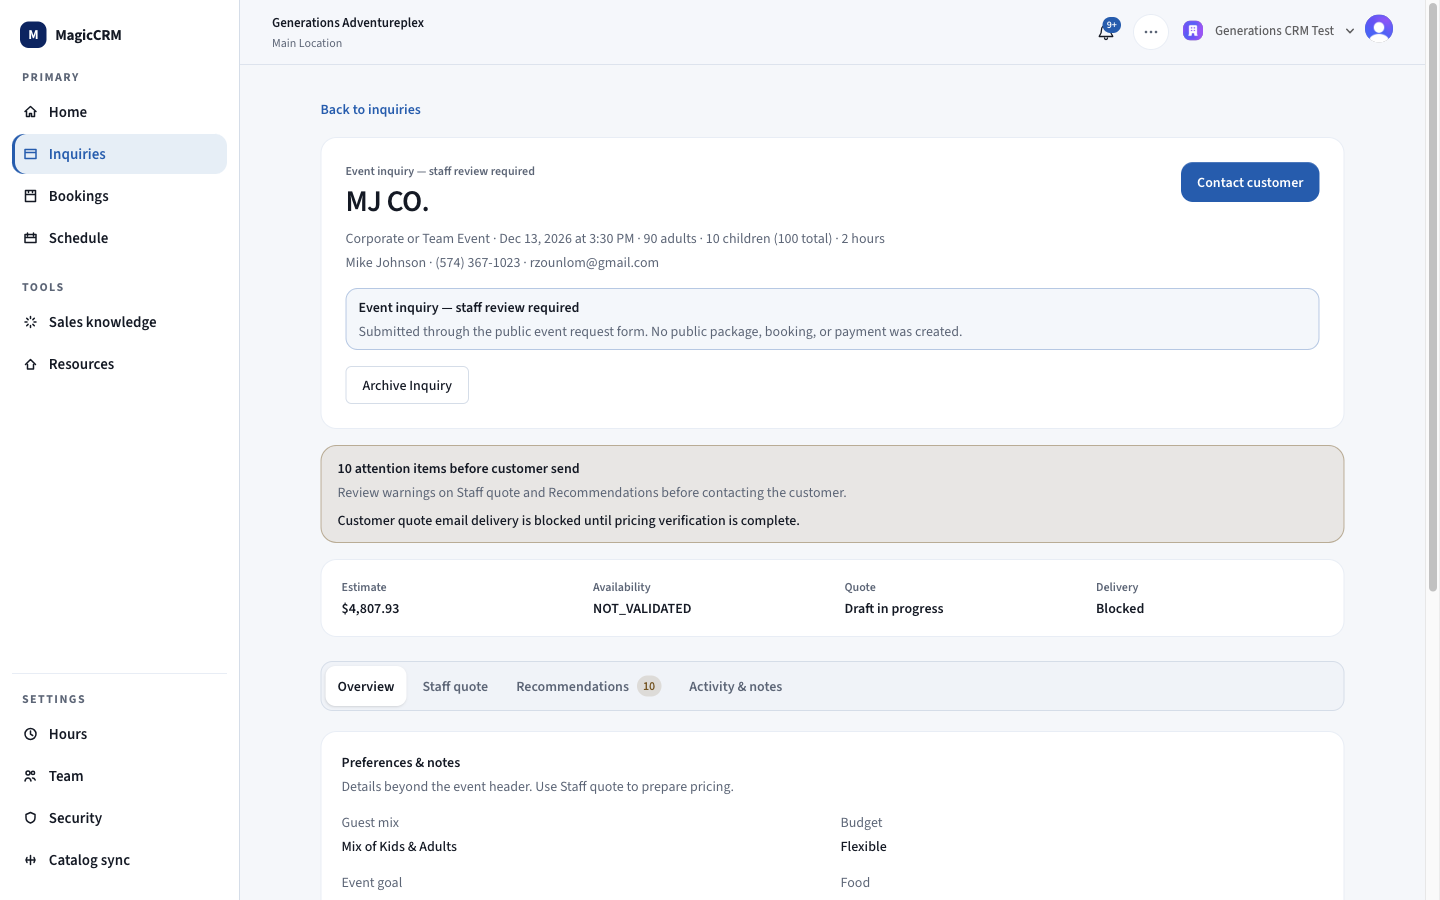
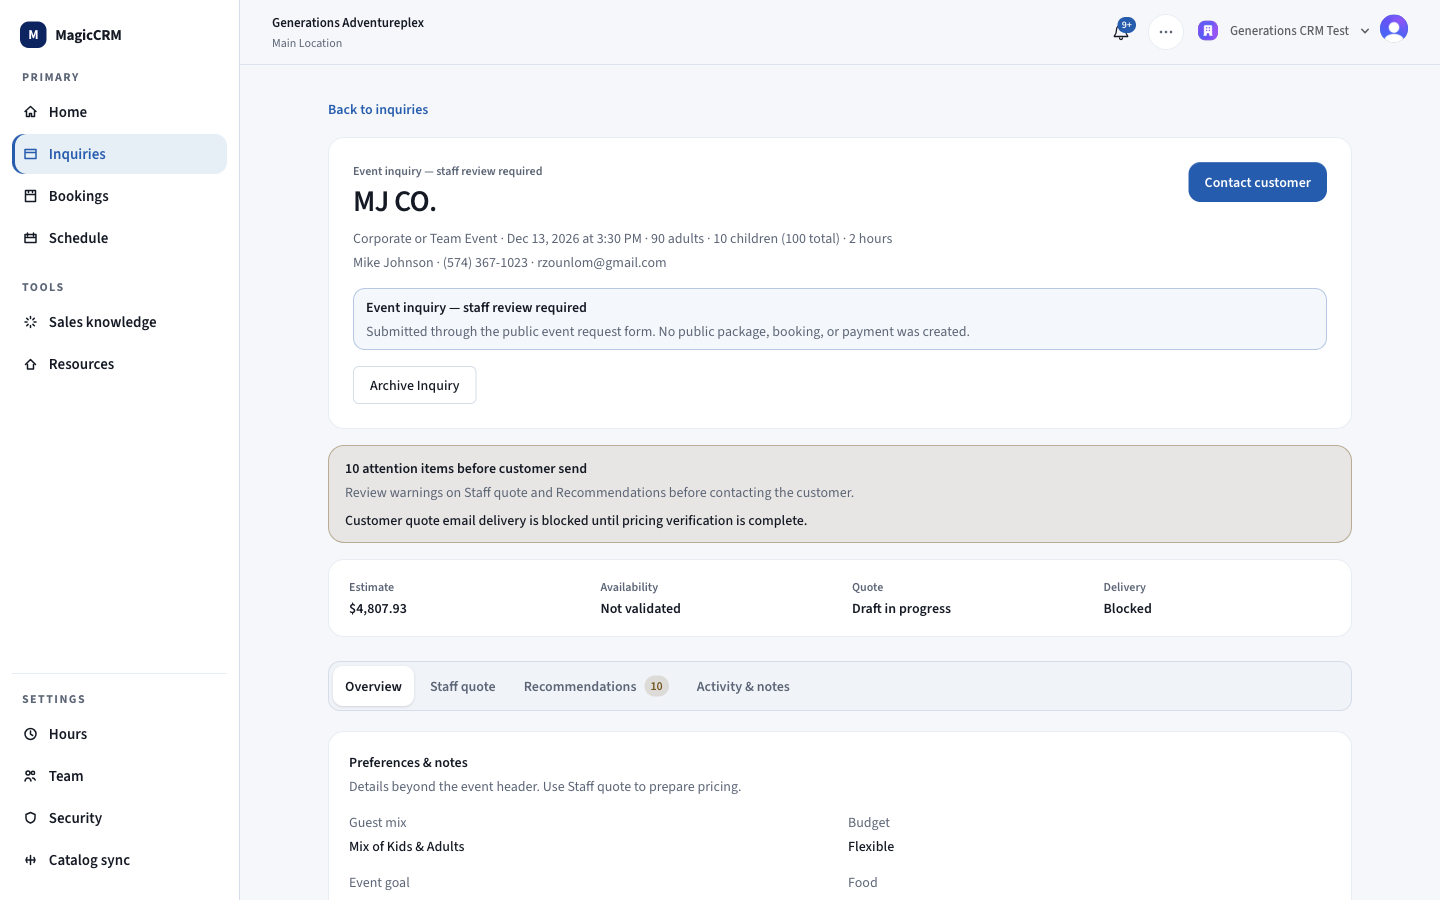
Polish Phase 12D queue cards with 10px spacing for final acceptance.
Separate inquiry rows into bordered cards and humanize WP availability strip labels; refresh screenshots and acceptance notes for owner review.

diff --git a/tests/unit/live-agent-inquiry-queue.test.tsx b/tests/unit/live-agent-inquiry-queue.test.tsx
@@ -300,4 +300,63 @@ describe("live agent inquiry queue", () => {
     expect(html).not.toContain(CUSTOMER_SELECTED_PLAN_BANNER);
     expect(html).not.toMatch(/READY TO BOOK/i);
   });
+
+  it("renders inquiry rows as spaced cards instead of a continuous table", () => {
+    const html = renderToStaticMarkup(
+      <LiveAgentInquiryQueue
+        timeZone="UTC"
+        inquiries={[
+          {
+            id: "inq_a",
+            status: INQUIRY_STATUSES.READY_FOR_HUMAN,
+            selectedEventPlanId: null,
+            humanHandoffReason: "PUBLIC_EVENT_REQUEST",
+            assignedUserProfileId: null,
+            customerSelectedAt: null,
+            createdAt: new Date("2026-09-09T11:00:00.000Z"),
+            humanHandoffRequestedAt: new Date("2026-09-09T11:00:00.000Z"),
+            workflowStage: null,
+            aiHandlingEnabled: false,
+            customerGroupName: "Card A",
+            customerFirstName: "A",
+            customerLastName: "One",
+            customerEmail: "a@example.com",
+            eventType: "Birthday",
+            desiredDate: new Date("2026-10-15T00:00:00.000Z"),
+            guestCount: 10,
+            assignedUser: null,
+            eventPlanRecommendations: [],
+            resourceReservations: [],
+          },
+          {
+            id: "inq_b",
+            status: INQUIRY_STATUSES.READY_FOR_HUMAN,
+            selectedEventPlanId: null,
+            humanHandoffReason: "PUBLIC_EVENT_REQUEST",
+            assignedUserProfileId: null,
+            customerSelectedAt: null,
+            createdAt: new Date("2026-09-08T11:00:00.000Z"),
+            humanHandoffRequestedAt: new Date("2026-09-08T11:00:00.000Z"),
+            workflowStage: null,
+            aiHandlingEnabled: false,
+            customerGroupName: "Card B",
+            customerFirstName: "B",
+            customerLastName: "Two",
+            customerEmail: "b@example.com",
+            eventType: "Birthday",
+            desiredDate: new Date("2026-10-16T00:00:00.000Z"),
+            guestCount: 12,
+            assignedUser: null,
+            eventPlanRecommendations: [],
+            resourceReservations: [],
+          },
+        ]}
+      />,
+    );
+
+    expect(html).toContain("inquiry-queue-list");
+    expect(html).toContain("gap-2.5");
+    expect(html).toContain("inquiry-queue-card");
+    expect(html).not.toContain("divide-y");
+  });
 });

diff --git a/src/app/app/inquiries/[id]/page.tsx b/src/app/app/inquiries/[id]/page.tsx
@@ -61,6 +61,10 @@ import { BOOKING_STATUSES } from "@/types/booking";
 import type { ConfirmationReadinessResult } from "@/types/confirmation-readiness";
 import type { HoldReadinessResult } from "@/types/hold-readiness";
 import { PERMISSIONS } from "@/types/permissions";
+import {
+  PLAN_AVAILABILITY_STATUS_LABELS,
+  PLAN_AVAILABILITY_STATUSES,
+} from "@/types/resource-schedule";
 
 type InquiryDetailView =
   | { kind: "status"; title: string; body: string }
@@ -328,7 +332,13 @@ export default async function InquiryDetailPage({
       : null);
   const quoteApproved = Boolean(wpStaffDraftProvenance?.employeeApproval);
   const quoteDelivered = Boolean(wpStaffDraftProvenance?.employeeApproval?.deliveryCompleted);
-  const availabilityLabel = workingPlan?.availabilityStatus ?? "Not checked";
+  const availabilityStatus = workingPlan?.availabilityStatus;
+  const availabilityLabel =
+    availabilityStatus && availabilityStatus in PLAN_AVAILABILITY_STATUS_LABELS
+      ? PLAN_AVAILABILITY_STATUS_LABELS[availabilityStatus as keyof typeof PLAN_AVAILABILITY_STATUS_LABELS]
+      : availabilityStatus
+        ? String(availabilityStatus)
+        : PLAN_AVAILABILITY_STATUS_LABELS[PLAN_AVAILABILITY_STATUSES.NOT_VALIDATED];
   const warningCount =
     (wpStaffDraftProvenance?.warnings.length ?? 0) +
     (wpStaffDraftProvenance?.catalogPriceDiscrepancies.length ?? 0);

diff --git a/src/components/layout/live-agent-inquiry-queue.tsx b/src/components/layout/live-agent-inquiry-queue.tsx
@@ -167,7 +167,7 @@ function QueueSection({
         </p>
       </div>
       <p className="mt-1 max-w-2xl text-sm text-muted-foreground">{description}</p>
-      <ul className="mt-4 divide-y divide-border-subtle overflow-hidden rounded-[var(--radius-card)] border border-border-subtle bg-surface">
+      <ul className="inquiry-queue-list mt-4 flex flex-col gap-2.5">
         {children}
       </ul>
     </section>
@@ -254,7 +254,7 @@ function InquiryRow({
   ].filter(Boolean);
 
   return (
-    <li>
+    <li className="inquiry-queue-card overflow-hidden rounded-[var(--radius-card)] border border-border-subtle bg-surface">
       <Link
         href={`/app/inquiries/${inquiry.id}`}
         className={cn(

diff --git a/planning/employee-ux/phase-12d/03-final-acceptance.md b/planning/employee-ux/phase-12d/03-final-acceptance.md
@@ -1,0 +1,36 @@
+# Phase 12D — Final visual acceptance
+
+Date: 2026-11-22  
+Branch: `phase-12d-inquiries-workspace`  
+PR: https://github.com/rzounlom/magic-crm/pull/26  
+Production: unchanged (main remains Phase 12C)
+
+## Owner-requested spacing
+
+Inquiry queue rows were a single bordered `divide-y` list and read as one continuous table.
+
+Change: each inquiry is an individual card (`inquiry-queue-card`) with `--radius-card`, `border-border-subtle`, and **10px** vertical gap (`gap-2.5`) between cards. Compact row padding unchanged. Applied consistently via shared `LiveAgentInquiryQueue` (Active + Archived).
+
+Evidence: `docs/design/phase-12d-screenshots/before-queue-card-spacing-1440.png` → `after-queue-card-spacing-1440.png`.
+
+## Focused UX polish (non-logic)
+
+- WP detail status strip Availability uses human labels (`Not validated`) instead of raw `NOT_VALIDATED`.
+
+## Acceptance summary
+
+| Area | Result |
+|---|---|
+| Queue hierarchy | Pending → Ready for Live Agent → Other; scannable cards |
+| WP READY TO BOOK suppression | Pass (no READY TO BOOK on PUBLIC_EVENT_REQUEST) |
+| Delivery blocked copy | Pass (`canDeliver: false` messaging visible) |
+| Dual detail paths | WP tabs + Live Agent coach both operational |
+| Dashboard `?focus=` | Maps review→ready-for-live-agent, pending→pending-confirmation, unread→top |
+| Shell | Phase 12C sidebar/top bar unchanged |
+| Horizontal overflow @1440 | None on queue/detail |
+
+## Remaining (non-blocking)
+
+- Home dashboard date hydration warning in Next.js overlay (pre-existing shell concern; not introduced by queue spacing).
+- Staff quote editor still exposes “Unit cents” (precision field; left unchanged per quote-field preservation).
+- Owner still decides merge timing and whether unread needs a dedicated filter later.

diff --git a/docs/design/phase-12d-screenshots/README.md b/docs/design/phase-12d-screenshots/README.md
@@ -2,12 +2,31 @@
 
 Authenticated local captures against `http://localhost:3000` (synthetic / redacted fixtures).
 
+## Spacing acceptance (owner request)
+
+| File | Notes |
+|---|---|
+| `before-queue-card-spacing-1440.png` | Pre-spacing: continuous divide-y table |
+| `after-queue-card-spacing-1440.png` | Individual cards with **10px** gap + radius + border |
+
+## Queue
+
 | File | Notes |
 |---|---|
 | `before-queue-1440.png` | Pre-redesign Active queue |
-| `after-queue-1440.png` | Sectioned list rows + concise header |
-| `after-detail-wp-1440.png` | WP path: compact header, next-action, status strip, tabs |
-| `after-detail-la-1440.png` | Live Agent path: tightened header + booking coach |
-| `after-queue-375.png` | Mobile queue |
+| `after-queue-1440.png` | Sectioned spaced cards + concise header |
+| `after-queue-375.png` | Mobile Active queue |
+| `after-queue-768.png` | Tablet Active queue |
+| `after-queue-archived-1440.png` | Archived view (same card treatment) |
 
-Production is unchanged until the owner merges the Phase 12D PR.
+## Detail
+
+| File | Notes |
+|---|---|
+| `after-detail-wp-1440.png` | WP Overview: compact header, next-action, status strip |
+| `after-detail-wp-staff-quote-1440.png` | Staff quote tab |
+| `after-detail-wp-recommendations-1440.png` | Recommendations |
+| `after-detail-wp-activity-1440.png` | Activity & notes |
+| `after-detail-la-1440.png` | Live Agent booking coach |
+
+Production is unchanged until the owner merges PR #26.

diff --git a/planning/employee-ux/phase-12d/00-README.md b/planning/employee-ux/phase-12d/00-README.md
@@ -13,6 +13,7 @@ Visual redesign of the authenticated inquiry queue and inquiry detail workspaces
 |---|---|
 | `01-current-state-audit.md` | UX findings before implementation |
 | `02-information-hierarchy.md` | Chosen queue + detail hierarchy |
+| `03-final-acceptance.md` | Visual acceptance + card spacing pass |
 
 ## Screenshots
 
